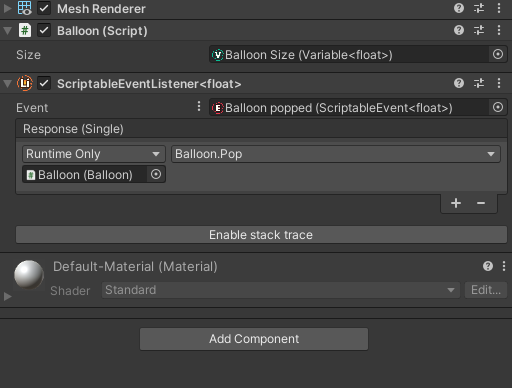
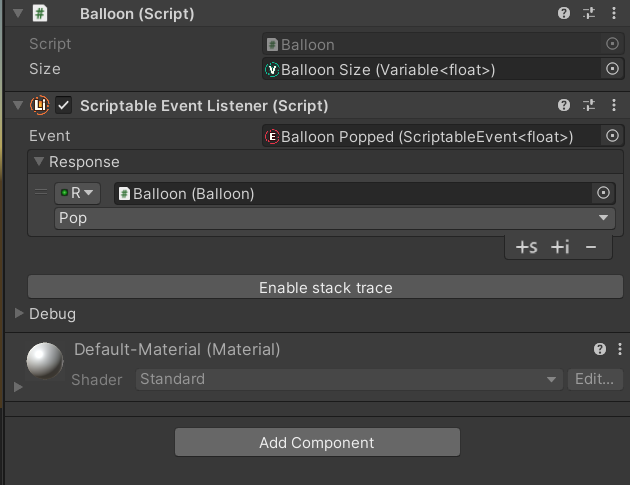
docs: Updated documentation for Scriptable Event Listeners

diff --git a/README.md b/README.md
@@ -219,15 +219,11 @@ Project supports Unity Package Manager. To install the project as a Git package 
    }
    ```
 
-6. In this example, we will connect methods through the `ScriptableEventListener` component. Let's add one to the balloon, and one to the air pump. You can find `ScriptableEventListener<T>` in the Add Component menu
+6. In this example, we will connect methods through the `ScriptableEventListener` component. Let's add one to the balloon, and one to the air pump. You can find `ScriptableEventListener` in the Add Component menu
    
    ![Scriptable Event Listener Add](https://raw.githubusercontent.com/SolidAlloy/GenericScriptableArchitecture/main/.images/scriptable-event-listener-add.png)
    
-   Then choose the `float` type for it
-   
-   ![Scriptable Event Listener Choose Type](https://raw.githubusercontent.com/SolidAlloy/GenericScriptableArchitecture/main/.images/scriptable-event-listener-choose-type.png)
-
-7. Voila! We can assign the scriptable event to it and choose the `Balloon.Pop()` method inside.
+7. Once you assign a scriptable event to it, it will show a response of the appropriate type automatically. Choose the `Balloon.Pop()` method inside.
    
    ![Scriptable Event Inspector](https://raw.githubusercontent.com/SolidAlloy/GenericScriptableArchitecture/main/.images/scriptable-event-inspector.png)
    
